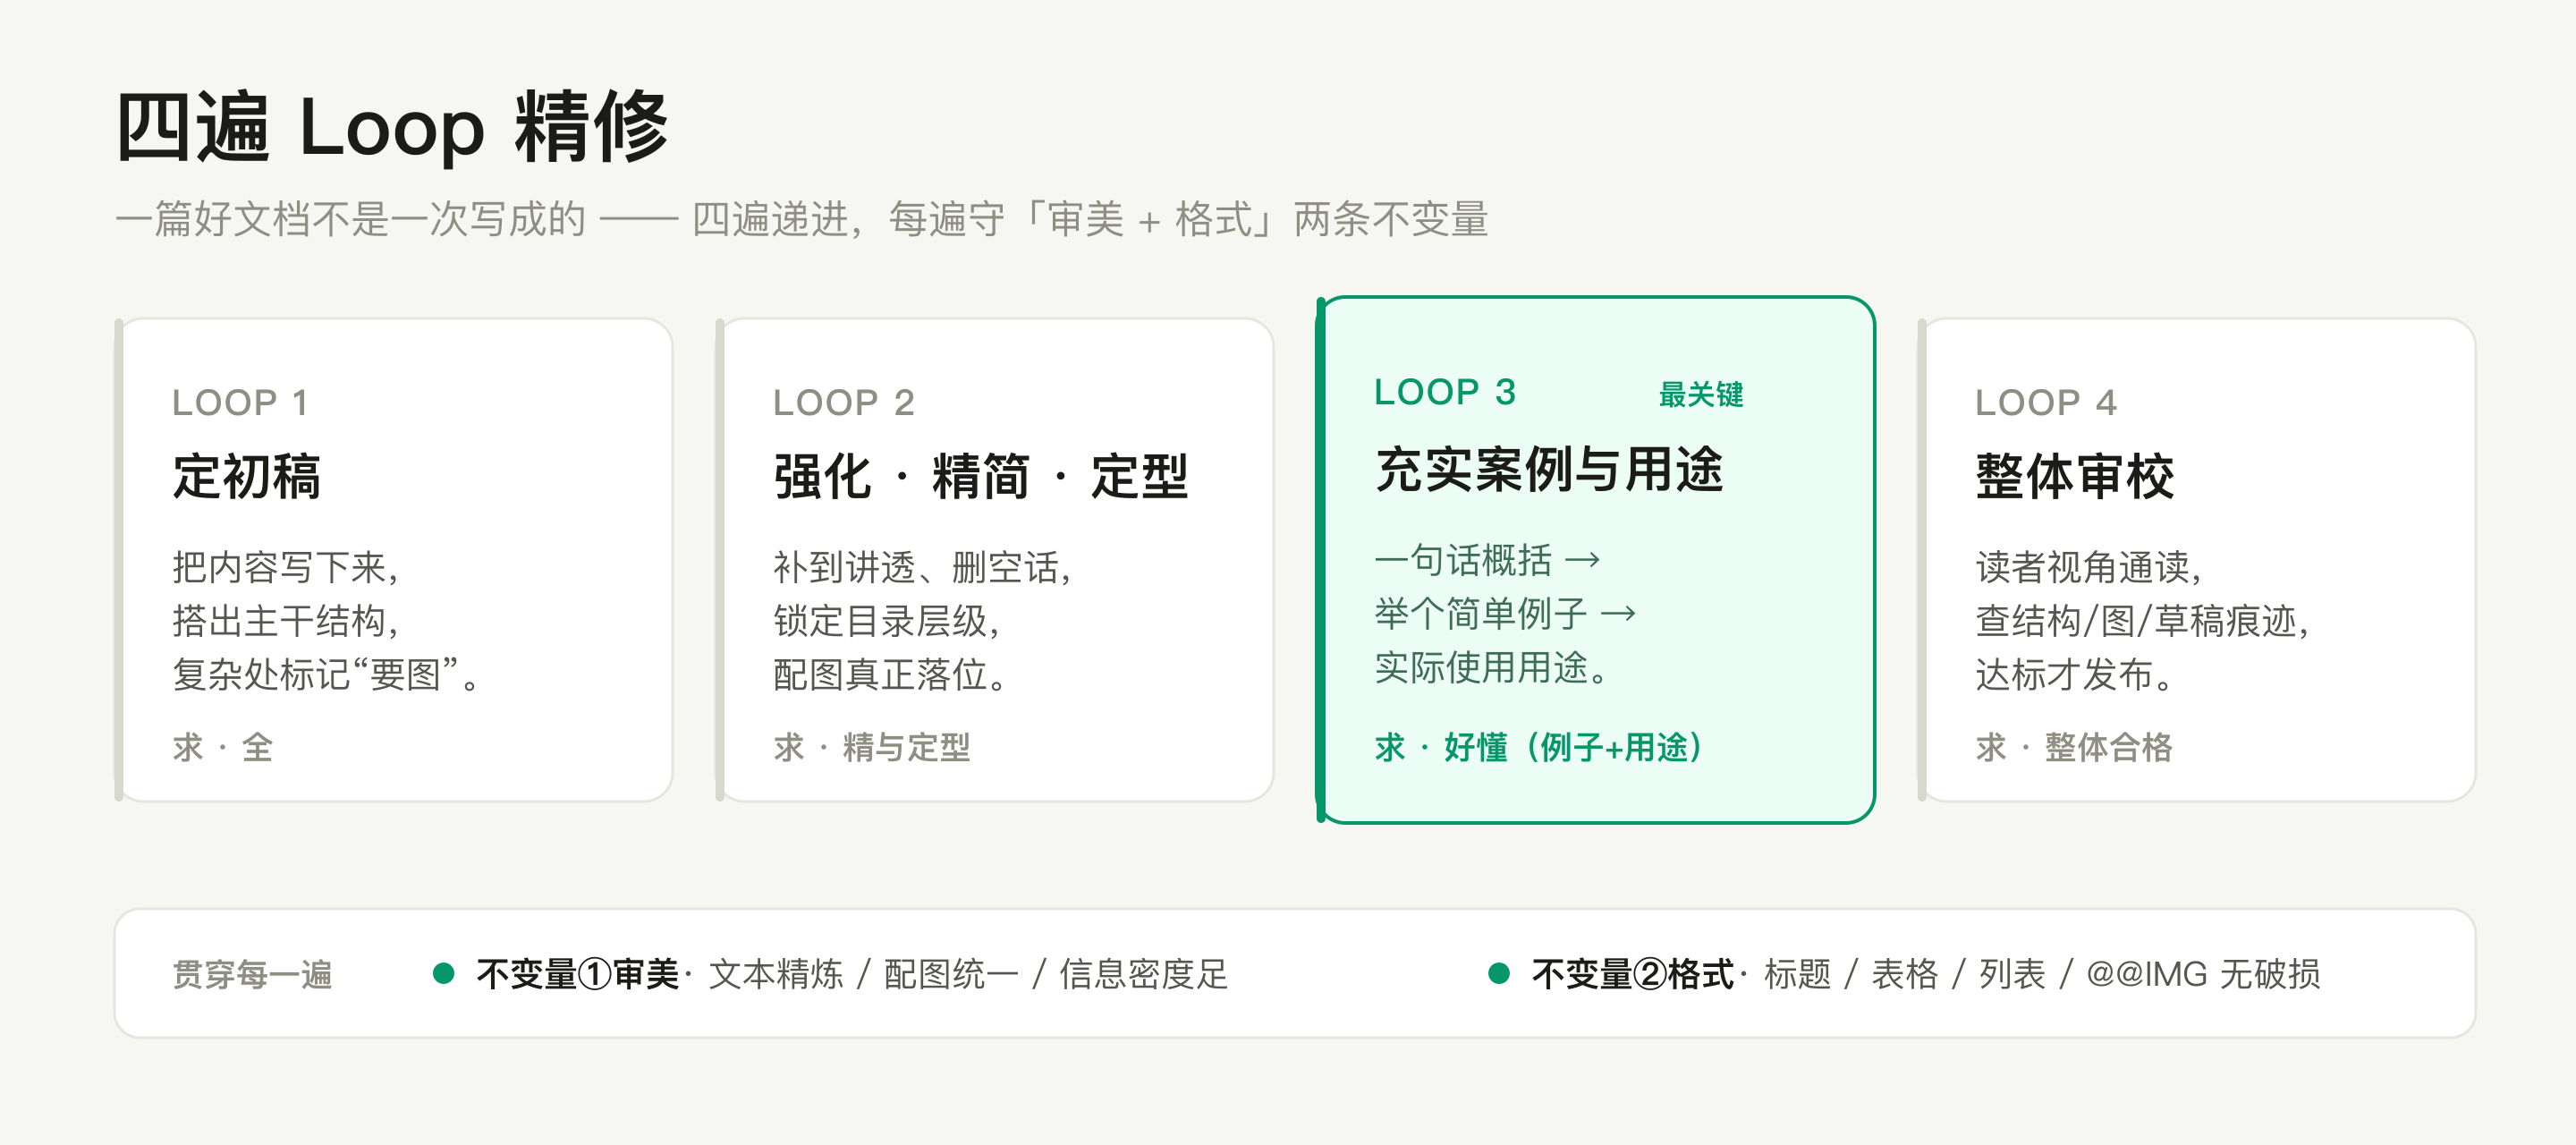
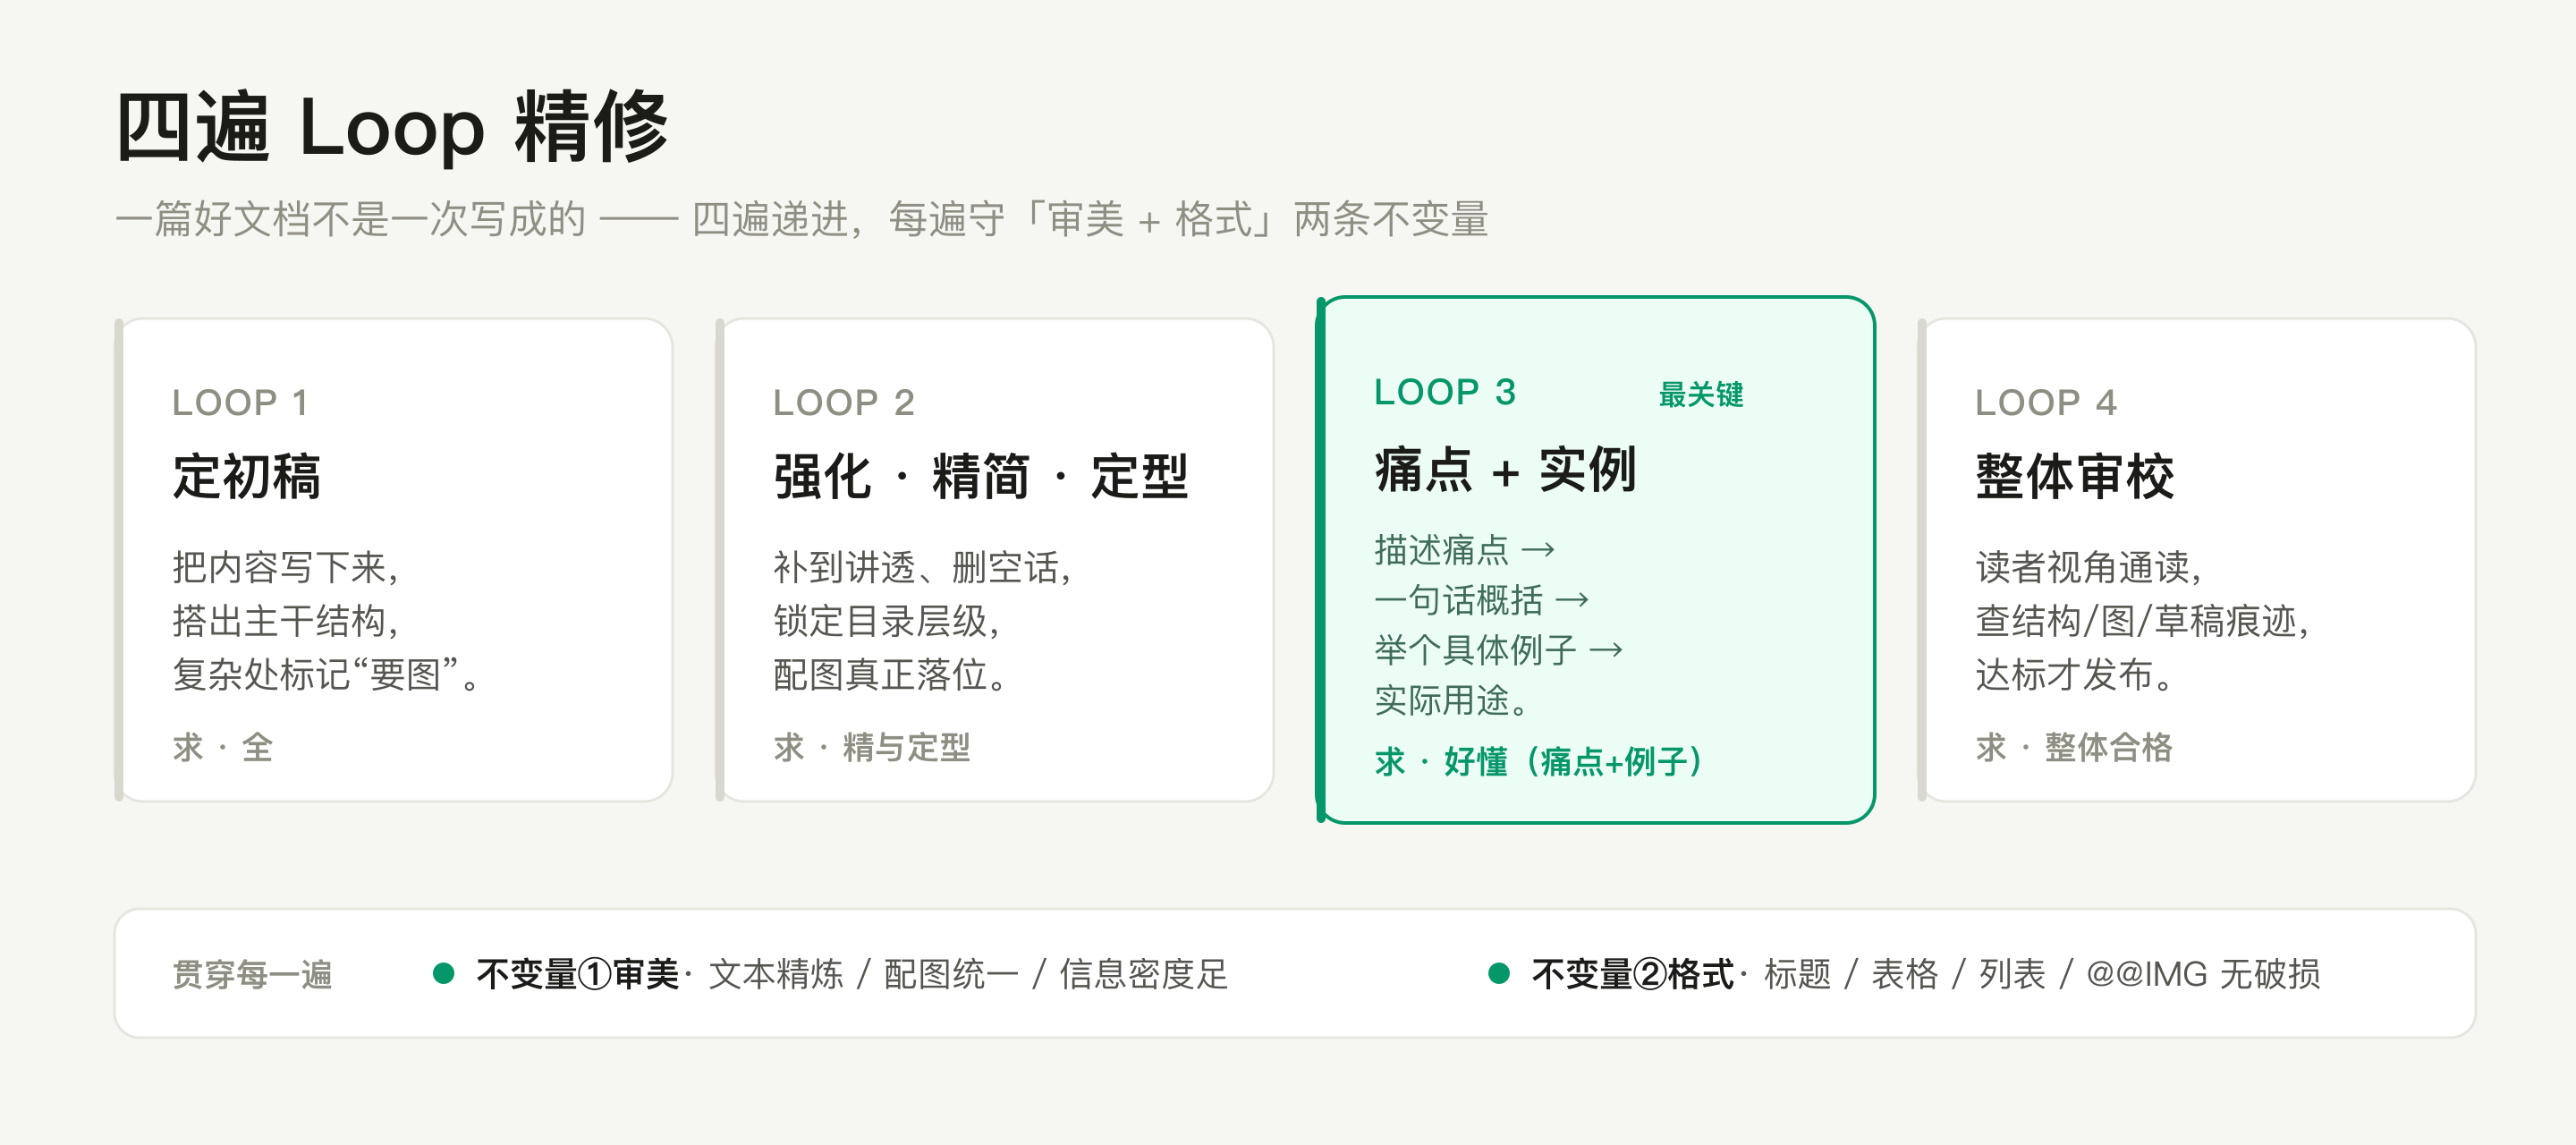
feat: 内容写法升级为痛点+实例主线 + 篇幅给足约束 (v0.1.1)
- Loop 3 公式扩成「描述痛点→概括→具体例子→实际用途」四段式,
  明确痛点+真实例子为主线、误区只作补充
- 文档大师约束新增「痛点驱动 + 篇幅给足」:宁长勿短,留删减空间,
  禁止一上来每点一句话
- four-loop 配图同步重画(Loop3 卡片改四段式)
- README 增三条对治痛点行;SKILL version→0.1.1;CHANGELOG 记 0.1.1

Changed region(s): [[0.5312, 0.4688, 0.6562, 0.6875], [0.5312, 0.375, 0.6875, 0.4375]]

diff --git a/SKILL.md b/SKILL.md
@@ -1,6 +1,6 @@
 ---
 name: doc-generate
-version: 0.1.0
+version: 0.1.1
 description: 统一的「生成/发布文档」工作流 skill —— 四遍 Loop 精修产内容 + 飞书知识库归档 + HTML 在线页面 + 浅色高级配图,由编排脚本 publish-doc.sh 串成确定性流水线。当要"输出/保存/导出/生成文档"、"写一篇分享/学习文档"、"归档到知识库"、"发个能打开的页面/链接",或落日常自动生成文档时使用。分享/学习类与日常自动生成分别归档到飞书 wiki 的两个父节点(token 在 config.local.env),格式(md/飞书文档/HTML)按内容自动定。
 ---
 
@@ -19,6 +19,7 @@ description: 统一的「生成/发布文档」工作流 skill —— 四遍 Loo
 3. **图随文走**:图**插在它讲解的那一节里**(用 `@@IMG` 标记),不许甩末尾、不许堆一起。一图配一处复杂点,保证阅读顺下来时图正好出现在需要它的位置。
 4. **不堆枯燥文字**:复杂处优先用图/表/示例代替大段文字(见「配图」)。每节聚焦一件事,长段落拆开。
 5. **可读优先**:开头用一两句点题或一张全局图建立心智模型,再展开;相邻概念讲清边界;结尾给速查/避坑这类高密度收口,而非又一段散文。
+6. **痛点驱动 + 篇幅给足**:每个大概念**先讲痛点**(没有它时什么场景下卡住、多难受),再上**具体例子**,最后才给抽象定义——顺着人"先共情、再看例子、才接受定义"的直觉走。**「痛点 + 实例」是主线**,「误区/避坑」只是补充,绝不能拿误区替代痛点和实例。**篇幅宁长勿短**:每个概念展开到「痛点+例子+原理+用途」四件套都讲透,用真实例子和细节把篇幅撑足(不是用空话凑字数);**给用户留删减空间——宁可多写让他删,不要少写让他自己补**。一上来就极简、每点一句话,是不合格。
 
 > 判定:把成稿当作要挂进公司知识库、给同事当权威参考的文档来要求。达不到就重写,别交草稿。
 
@@ -38,12 +39,14 @@ description: 统一的「生成/发布文档」工作流 skill —— 四遍 Loo
 - **强化格式 + 锁定目录**:**确定最终的文章目录与子章节层级**(H2/H3/H4 分明、命名统一、不流水账),这一遍把结构钉死。
 - **配图落位**:把标记处的图真正生成(taste 风格 SVG→PNG),`@@IMG` 插到对应章节。
 
-**Loop 3 · 充实案例与用途(让内容不晦涩,最关键的一遍)**
-上几遍容易写成"每点一句话"的骨架——读着多,其实每步都太薄、抽象难懂。这一遍给**每个大章节**按这个三段式补到位,贴合人的认知直觉:
+**Loop 3 · 痛点 + 实例,把每个概念讲具象(最关键的一遍)**
+上几遍容易写成"每点一句话"的骨架——读着多,其实每步都太薄、抽象难懂。这一遍给**每个大章节**按这个四段式补到位,贴合人"先共情痛点、再看例子、最后才接受定义"的认知直觉:
 
-> **一句话概括** → **举个简单例子**(具体、不复杂,能落地想象) → **实际使用用途**(在真实场景里这东西用来干嘛)
+> **描述痛点**(没有它之前多难受、什么场景下卡住)→ **一句话概括**(它是什么)→ **举个具体例子**(真实场景、有细节、能在脑子里放电影)→ **实际用途**(平时拿它来干嘛)
 
-例:讲"上下文压缩"不能只说"超窗时摘要替换早期内容";要补——*比如一段聊了两小时的对话塞不下了(例子),系统就把前一小时自动总结成几句话替换掉、保留最近的细节(怎么做),于是你能一直聊下去不断片(用途)*。例子要简单到一眼懂,但必须有。读完每节,读者要能"知道它是什么、长什么样、拿来干嘛",而不是只记住一个名词。
+**「痛点 + 实例」是主线,别本末倒置只写"误区"**。例子要**具体到有画面**:讲"上下文压缩"不能只甩"超窗时摘要替换早期内容",要写——*你跟它聊了俩小时方案,聊到第 50 轮突然发现它忘了开头定的需求,前功尽弃(痛点);上下文压缩就是在快塞满时,自动把前一小时总结成几句话替换掉、只留最近的细节(是什么+怎么做);于是你能从早聊到晚不断片,像它一直记得(用途)*。
+
+这一遍也是**把篇幅撑足**的一遍:每个概念都展开到痛点、例子、原理、用途讲透,**宁可写长让用户自己删,也不要每点一句话让他读不懂**。读完每节,读者要能"知道为什么需要它、它是什么、长什么样、拿来干嘛",而不是只记住一个名词。
 
 **Loop 4 · 整体审校(最后一遍)**
 站在读者视角通读全篇,逐项核:整体结构是否顺 → 每张图是否在对的位置、且讲清了它该讲的 → 文本与内容是否符合需求 → 有无草稿痕迹/跑题/前后矛盾 → **每节是否都做到了"概括+例子+用途"、有没有还停留在干巴一句话的**。发现问题回炉,直到达到"能挂公司知识库当权威参考"的水准再发布。

diff --git a/CHANGELOG.md b/CHANGELOG.md
@@ -2,6 +2,14 @@
 
 本项目遵循[语义化版本](https://semver.org/lang/zh-CN/)，格式参考 [Keep a Changelog](https://keepachangelog.com/zh-CN/1.1.0/)。
 
+## [0.1.1] - 2026-06-14
+
+### 变更
+- **内容写法升级（最重要）**：Loop 3 公式从「概括+例子+用途」扩成 **「描述痛点 → 概括 → 具体例子 → 实际用途」四段式**，明确「痛点 + 真实例子」为主线、「误区」只作补充。
+- 新增 **文档大师约束 · 痛点驱动 + 篇幅给足**：先讲痛点再上例子最后给定义；篇幅宁长勿短，把四件套讲透、给用户留删减空间，禁止一上来就每点一句话。
+- 四遍 Loop 编号从 1/2/4/5（迭代残留）理顺为连续 **1/2/3/4**，配图同步重画。
+- SKILL.md 配图目录默认值去掉个人路径，改通用占位。
+
 ## [0.1.0] - 2026-06-14
 
 首个公开版本。
@@ -15,4 +23,5 @@
 - **浅色高级视觉** —— 内置 `taste-light.css`，配图配色常量写在 `SKILL.md`。
 - 配置全部外置到 `config.local.env`，仓库零敏感信息，`config.example.env` 为占位模板。
 
+[0.1.1]: https://github.com/mayangzz/doc-generate-skill/releases/tag/v0.1.1
 [0.1.0]: https://github.com/mayangzz/doc-generate-skill/releases/tag/v0.1.0

diff --git a/README.md b/README.md
@@ -20,7 +20,9 @@ AI 直接产出的文档，常有四个通病：
 
 | 通病 | 本 skill 的对治 |
 |---|---|
-| 东西多，但每点只有干巴一句话 | **Loop 3** 强制「一句话 + 例子 + 用途」，不晦涩 |
+| 东西多，但每点只有干巴一句话 | **Loop 3** 强制「痛点 + 例子 + 用途」，每点讲到有画面 |
+| 只罗列「误区」，不讲痛点、没有实例 | 以**痛点 + 真实例子**为主线，误区只作补充 |
+| 篇幅太省，读者还没看懂就没了 | **宁长勿短**：四件套展开撑足，留删减空间而非一上来就极简 |
 | 结构是 `1. 2. 3.` 流水账 | 文档大师约束：真实多级层次（H2/H3/H4） |
 | 图甩在末尾、或干脆没图 | 复杂处自动配 taste 风格图，`@@IMG` **随文走** |
 | 留「预备稿 / 本文将介绍」草稿痕迹 | 零草稿痕迹，正文直接进内容 |
@@ -31,7 +33,7 @@ AI 直接产出的文档，常有四个通病：
 
 ## ✨ 能做什么
 
-- **四遍 Loop 精修** —— 初稿 → 强化/精简/定结构 → 充实例子与用途 → 整体审校；每遍守「审美 + 格式」两条不变量。
+- **四遍 Loop 精修** —— 初稿 → 强化/精简/定结构 → 痛点+例子+用途讲具象 → 整体审校；每遍守「审美 + 格式」两条不变量。
 - **自动配图** —— 手写浅色高级 SVG → `rsvg-convert` 转 PNG，用 `@@IMG:路径|说明@@` 内联到对应章节。
 - **飞书归档** —— 分享/学习类 → 知识库；日常自动生成 → 按 月/日 目录。每篇新建。
 - **HTML 在线页** —— 内置 `taste-light.css` 一套浅色高级样式，`--html` 自动上传拿链接。